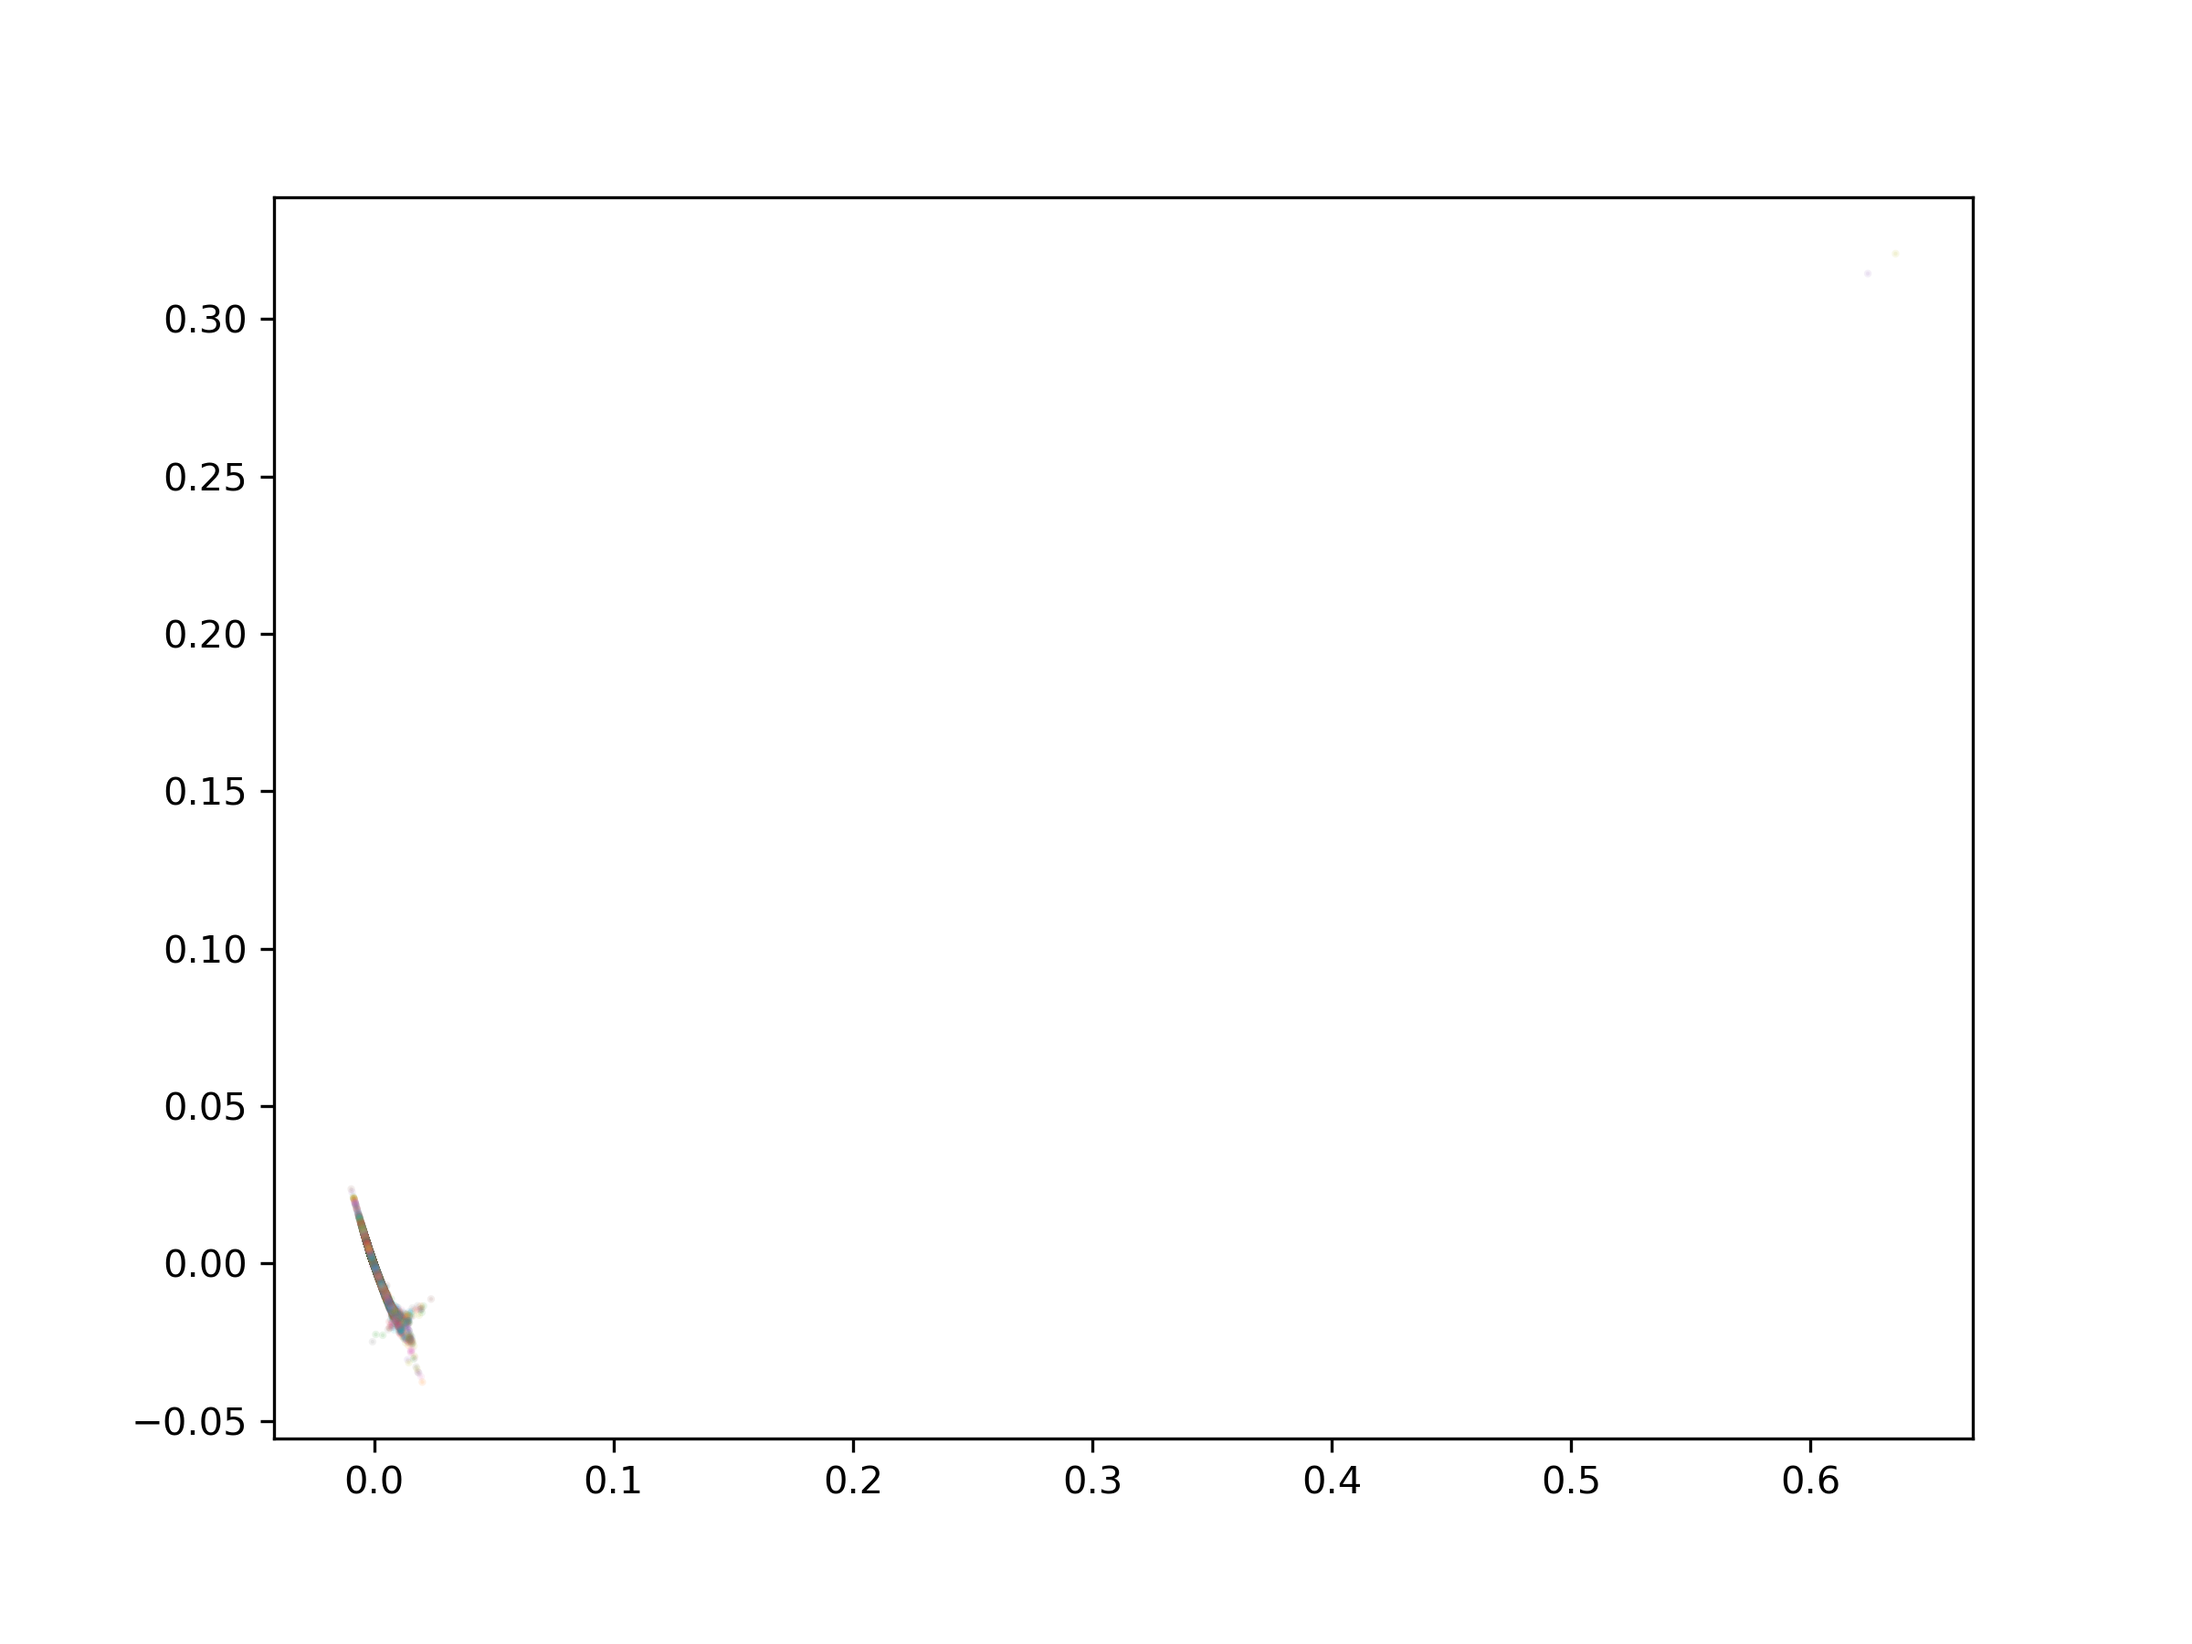
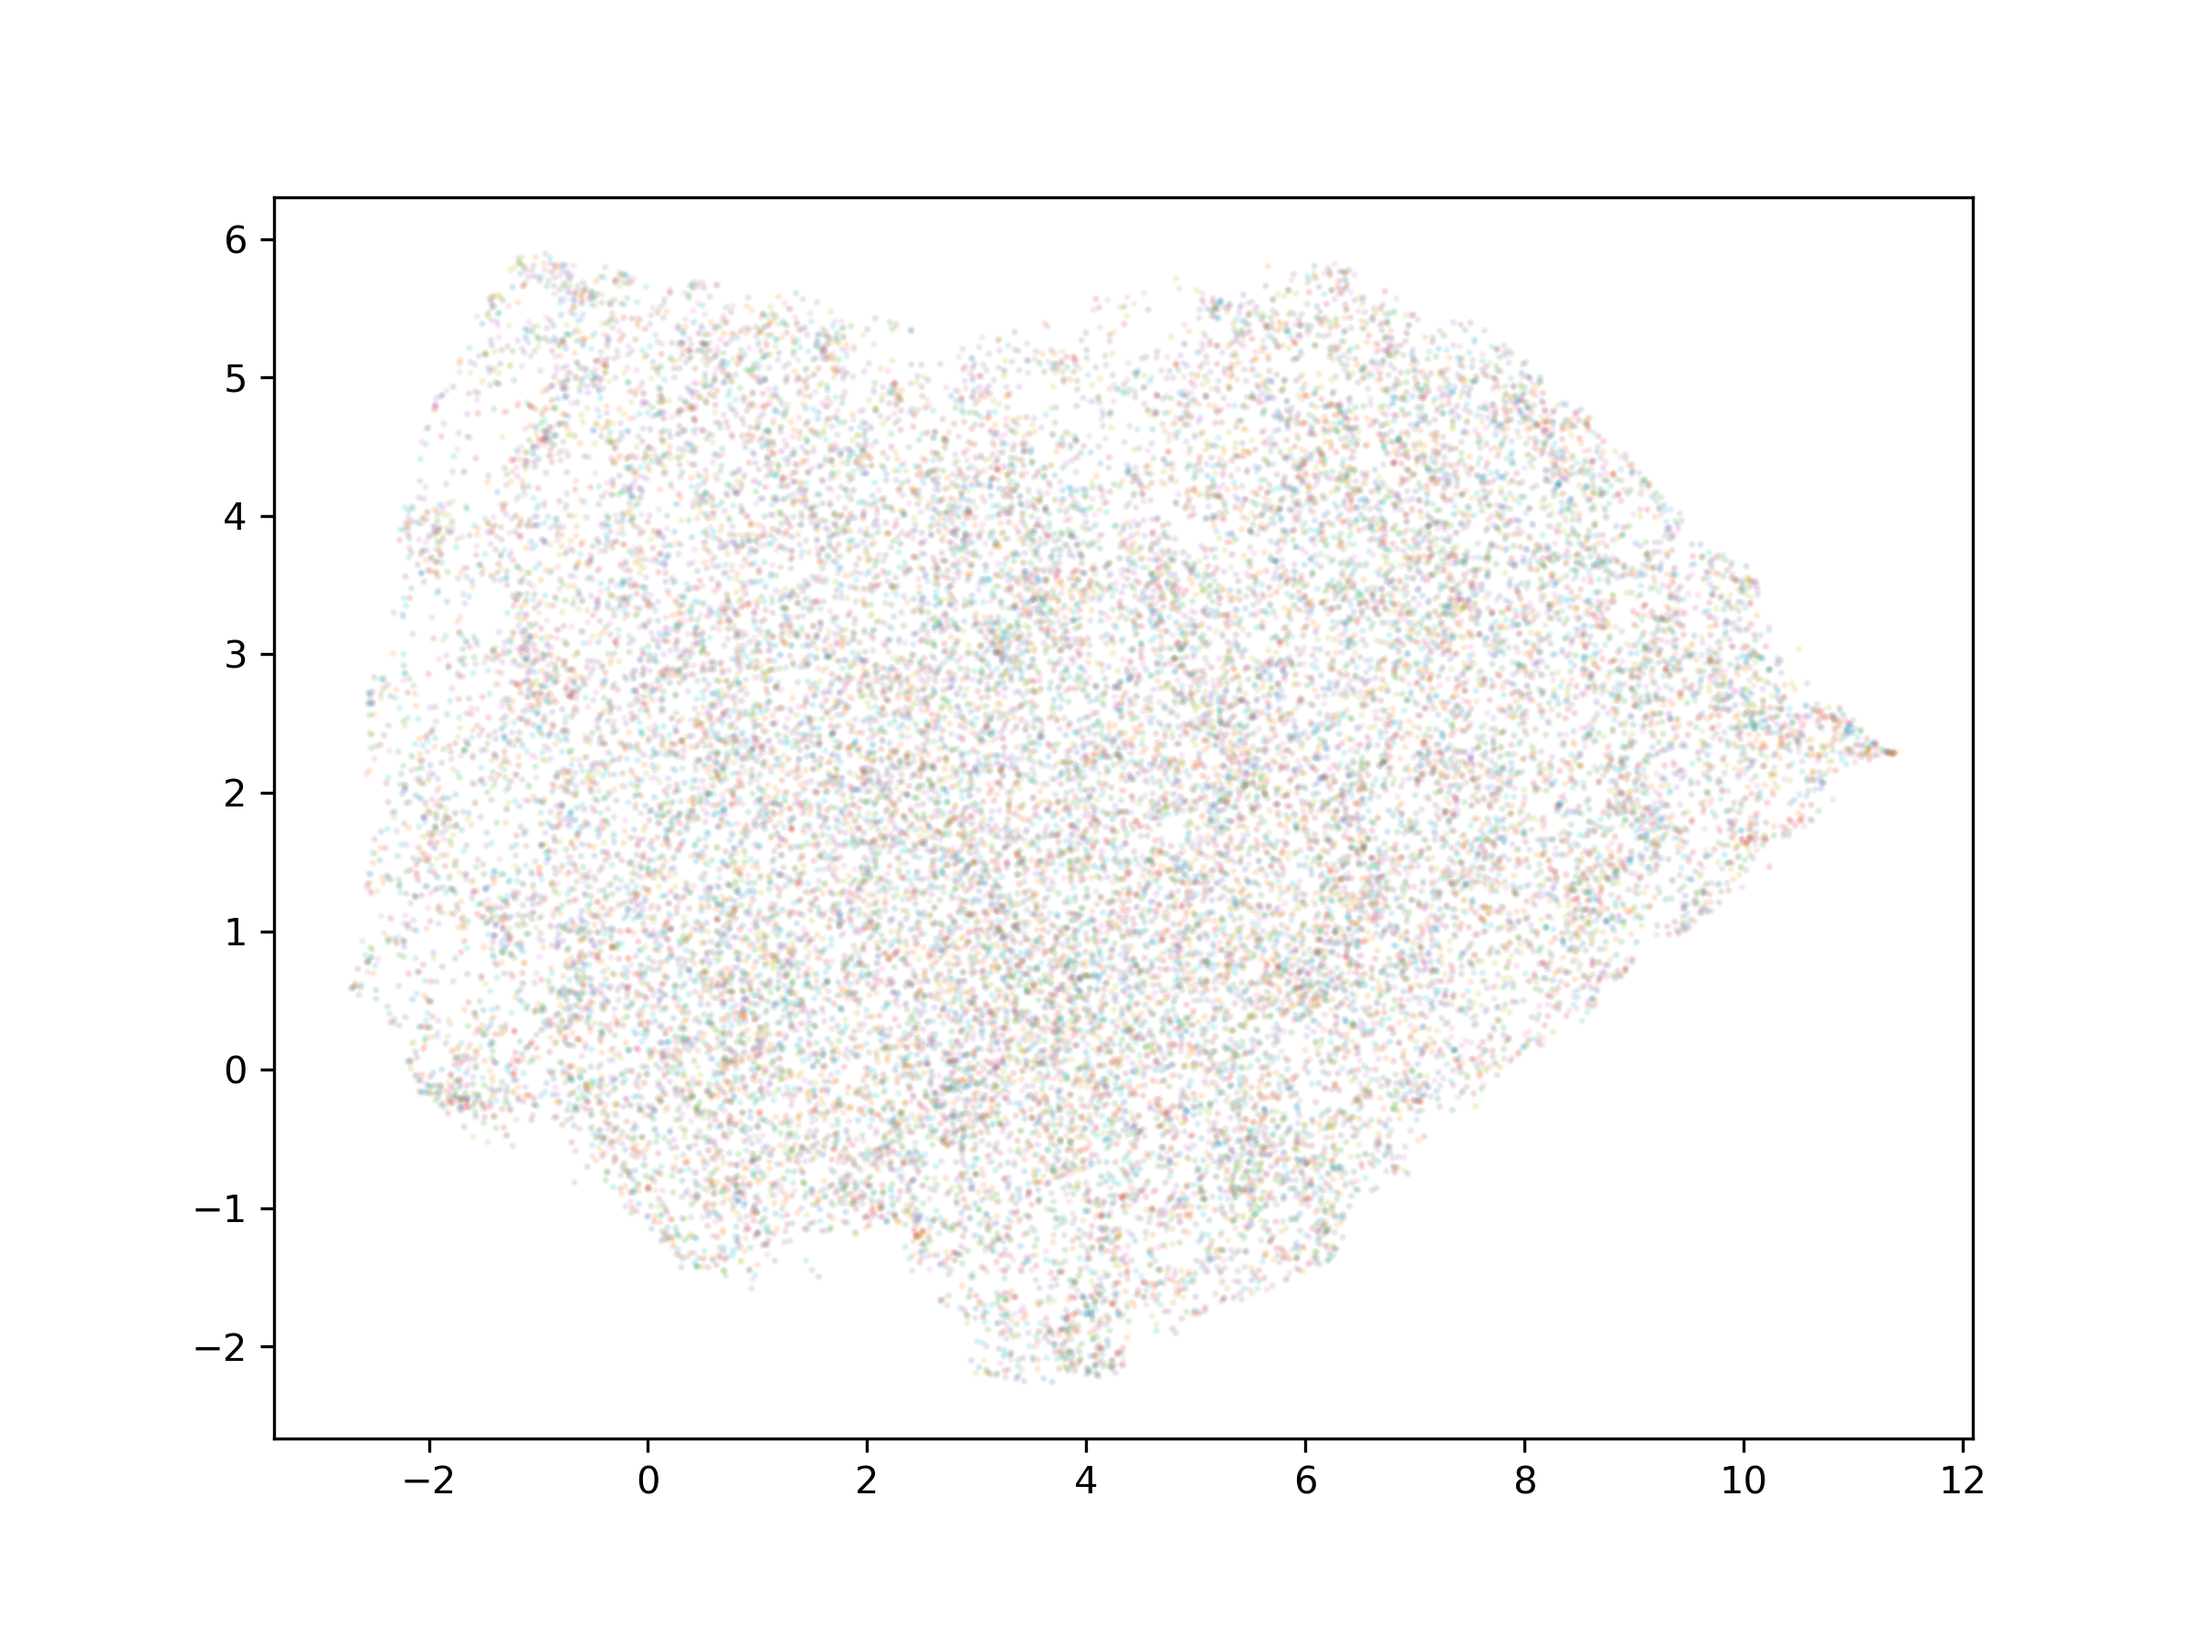
simplifying after energy transformer overhaul

diff --git a/jepa/jepa.py b/jepa/jepa.py
@@ -63,6 +63,8 @@ class JepaSkeleton(torch.nn.Module):
         return x
     
 class IJepa(JepaSkeleton):
+    """An image JEPA. This is slightly more abstract than the paper implementation (can be used with models other than classic ViTs).
+    This model fills in some of the unimplemented methods in the skeleton. See ViTJepa below for an implementation more akin to the paper."""
     def __init__(self,
                  embedder,
                  context_encoder,
@@ -71,14 +73,6 @@ class IJepa(JepaSkeleton):
                          context_encoder,
                          predictor)
         
-    def filter_tensor(self, x, indices):
-        """Wrapper for filtering a tensor, useful because shapes can vary in subclasses."""
-        return x[:, indices, :]
-    
-    def filter_tensor_range(self, x, range):
-        """Wrapper for filtering a tensor, useful because shapes can vary in subclasses."""
-        return x[:, :range, :]
-        
     def embed_get_indices(self, x):
         x_patched = self.embedder(x)
         context, targets = self.embedder.get_indices()
@@ -86,7 +80,7 @@ class IJepa(JepaSkeleton):
 
     def encode_context_targets(self, x_patched, context, targets):
         target_encoded = self.target_encoder(x_patched)
-        x_targets = [self.filter_tensor(target_encoded, target) for target in targets]
+        x_targets = [target_encoded[:, target, :] for target in targets]
 
         # .filtered_forward method filters the posemb to the context
         context_encoded = self.context_encoder.filtered_forward(x_patched[context, :], 
@@ -103,7 +97,7 @@ class IJepa(JepaSkeleton):
 
         preds = [self.predictor.filtered_forward(pred_pair, indice_pair) for pred_pair, indice_pair in zip(pred_pairs, indice_pairs)]
         # filter to just the predicted target
-        preds = [self.filter_tensor_range(pred, target.shape[0]) for pred, target in zip(preds, targets)]
+        preds = [pred[:, :target.shape[0], :] for pred, target in zip(preds, targets)]
 
         return preds
 
@@ -164,7 +158,7 @@ class EnergyIJepa(IJepa):
                  embed_dim = 256,
                  hopfield_hidden_dim = 2048,
                  n_heads = 8,
-                 n_iters_default = 4,
+                 n_iters_default = 6,
                  alpha = 0.1,
                  beta = None,
                  hopfield_type = "relu",
@@ -196,8 +190,7 @@ class EnergyIJepa(IJepa):
                                             alpha = alpha,
                                             beta = beta,
                                             context = h * w // patch_size[0] // patch_size[1],
-                                            hopfield_type = hopfield_type,
-                                            batched_input = False)
+                                            hopfield_type = hopfield_type)
         
         predictor = EnergyTransformer(dim = embed_dim,
                                       hidden_dim = hopfield_hidden_dim,
@@ -206,53 +199,11 @@ class EnergyIJepa(IJepa):
                                       alpha = alpha,
                                       beta = beta,
                                       context = h * w // patch_size[0] // patch_size[1],
-                                      hopfield_type = hopfield_type,
-                                      batched_input = False)
+                                      hopfield_type = hopfield_type)
         
         super().__init__(masked_embedder,
                          context_encoder,
                          predictor)
-        
-        # overwrite mask token
-        self.mask_token = torch.nn.Parameter(torch.randn(1, self.embed_dim))
-        
-    def filter_tensor(self, x, indices):
-        """Wrapper for filtering a tensor, useful because shapes can vary in subclasses."""
-        return x[indices, :]
-    
-    def filter_tensor_range(self, x, range):
-        """Wrapper for filtering a tensor, useful because shapes can vary in subclasses."""
-        return x[:range, :]
 
-    def predict(self, context_encoded, context, targets):
-        # need these for filtering the posemb to the right spots
-        indice_pairs = [torch.cat((target, context), dim = 0) for target in targets]
-        # create masks of right shape
-        pred_targets = [self.mask_token.repeat(target.shape[0], 1) for target in targets]
-        # since shape is (batch, tokens, dim), we join at dim=1
-        pred_pairs = [torch.cat((pred_target, context_encoded), dim = 0) for pred_target in pred_targets]
-
-        preds = [self.predictor.filtered_forward(pred_pair, indice_pair) for pred_pair, indice_pair in zip(pred_pairs, indice_pairs)]
-        # filter to just the predicted target
-        preds = [self.filter_tensor_range(pred, target.shape[0]) for pred, target in zip(preds, targets)]
-
-        return preds
-        
-    def forward(self, x):
-        """The forward operation. Unfortunately, we can't use vmap because of the way the energy transformer works."""
-        # for loop through batch
-        preds = []
-        x_targets = []
-        for x_i in x:
-            pred, x_target = self.forward_part(x_i)
-            # a bit hacky but they will be aligned
-            pred, x_target = torch.cat(pred), torch.cat(x_target)
-            preds.append(pred)
-            x_targets.append(x_target)
-        return preds, x_targets
-        
-
-        
-#TODO : continue cleaning up energy JEPA
 #TODO : look into adding VICReg losses on the encoders
     

diff --git a/jepa/train.py b/jepa/train.py
@@ -6,7 +6,7 @@ import numpy as np
 import einops
 import matplotlib.pyplot as plt
 from tqdm import tqdm
-from jepa import IJepa, EnergyIJepa
+from jepa import ViTJepa, EnergyIJepa
 from utils import WarmUpScheduler, losses_to_running_loss
 # need to do this for downloading on windows
 import ssl
@@ -78,7 +78,7 @@ def generate_val_data(model, dataset, device, batch_size = 64):
 
     return X, y
 
-def coerce_shape(X, y = None, reduce = False, sample = 0.1):
+def coerce_shapes(X, y = None, reduce = False, sample = 0.1):
     if reduce:
         X = X.mean(dim = 1)
     else:
@@ -110,7 +110,7 @@ def knn_test(X : torch.Tensor,
     from sklearn.preprocessing import StandardScaler
 
     if coerce_shape and (len(X.shape) > 2):
-        X, y = coerce_shape(X, y = y, reduce = reduce, sample = sample)
+        X, y = coerce_shapes(X, y = y, reduce = reduce, sample = sample)
     
     X_np = X.cpu().numpy()
     X_np = StandardScaler().fit_transform(X_np)
@@ -122,17 +122,17 @@ def knn_test(X : torch.Tensor,
     knn.fit(X_np, y_np)
     print(f"Done.\n\tKNN score: {knn.score(X_np, y_np)}\nEmbedding in 2D and plotting...", end = "")
 
-def plot_embedding(X, y, k = 5, coerce_shape = True, reduce = False, sample = 0.002, lle_method = "modified"):
-    from sklearn.manifold import locally_linear_embedding
+def plot_embedding(X, y, k = 20, coerce_shape = True, reduce = False, sample = 0.002, lle_method = "modified"):
+    from umap import UMAP
     from sklearn.preprocessing import StandardScaler
     if coerce_shape and (len(X.shape) > 2):
-        X, y  = coerce_shape(X, y = y, reduce = reduce, sample = sample)
+        X, y  = coerce_shapes(X, y = y, reduce = reduce, sample = sample)
 
     X_np = X.cpu().numpy()
     X_np = StandardScaler().fit_transform(X_np)
     y_np = y.cpu().numpy()
 
-    X_embedded, err = locally_linear_embedding(X_np, n_neighbors = k, n_components = 2, method = lle_method)
+    X_embedded = UMAP(n_neighbors = k).fit_transform(X_np)
     # plot it, with colors corresponding to the true labels
     fig, ax = plt.subplots(figsize = (8, 6))
     ax.scatter(X_embedded[:, 0], X_embedded[:, 1], c = y_np, cmap = "tab10", s = 1, alpha = 0.1)
@@ -140,19 +140,32 @@ def plot_embedding(X, y, k = 5, coerce_shape = True, reduce = False, sample = 0.
     fig.savefig("../plots/embedding.png", dpi = 300)
 
 
-def corr_dimension(X, log_eps = np.linspace(-2, 0, 10), base = 10, plot = False, coerce_shape = True, reduce = False, sample = 0.002):
+def corr_dimension(X, 
+                   log_eps : np.array = None,
+                   n_points = 10,
+                   base = 10, 
+                   plot = False, 
+                   coerce_shape = True, 
+                   reduce = False, 
+                   sample = 0.002):
     """Correlation dimension, assumes X has already been stacked or reduced and is shape (n, dim)"""
     if coerce_shape and (len(X.shape) > 2):
-        X, _ = coerce_shape(X, reduce = reduce, sample = sample)
-
-    eps = list(base ** log_eps)
-    log_eps = list(log_eps)
+        X, _ = coerce_shapes(X, reduce = reduce, sample = sample)
 
     lens = X.shape[0]
     X = X # for compatibility with torch.cdist
     denominator = lens ** 2
     with torch.no_grad():
         dists = torch.nn.functional.pdist(X)
+
+        if log_eps is None:
+            min_log_eps = np.log(dists.min().item()) / np.log(base)
+            max_log_eps = np.log(dists.max().item()) / np.log(base)
+            log_eps = np.linspace(min_log_eps, max_log_eps, n_points)
+
+        eps = list(base ** log_eps)
+        log_eps = list(log_eps)
+
         corr_integrals = []
         max_i = 0
         for i, eps_i in enumerate(eps):
@@ -208,6 +221,8 @@ def run_tests(test_list, model, data_val, device):
 #TODO : break into functions
 #TODO : saving, loading pts
 #TODO : add imagenet2017 dataset
+#TODO : add function to print singular value count for network
+#TODO : update correlation dim to automatically determine epsilons
 
 if __name__ == "__main__":
     config = yaml.safe_load(open("../config/training.yml", "r"))
@@ -231,7 +246,7 @@ if __name__ == "__main__":
 
     steps_per_epoch = len(data) // config["batch_size"]
 
-    model = EnergyIJepa(config["h"], 
+    model = ViTJepa(config["h"], 
                   config["w"], 
                   patch_size = config["patch_size"], 
                   n_targets = config["n_targets"]).to(device)

diff --git a/jepa/transformers.py b/jepa/transformers.py
@@ -148,7 +148,7 @@ class Transformer(torch.nn.Module):
         return x
     
     def filtered_forward(self, x, indices):
-        """Given a tensor of the form [context, masked target] and indices describing where on the image
+        """Given a tensor of the form [masked target, context] and indices describing where on the image
         they come from, add positional embedding and pass through the transformer."""
         pos_embedding = self.pos_embedding[:, indices, :]
 
